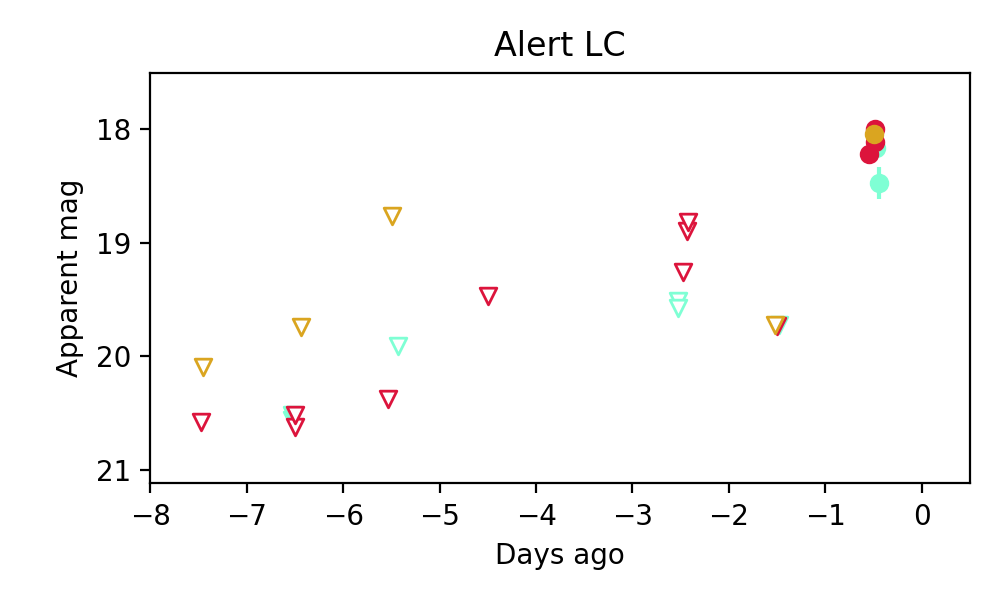
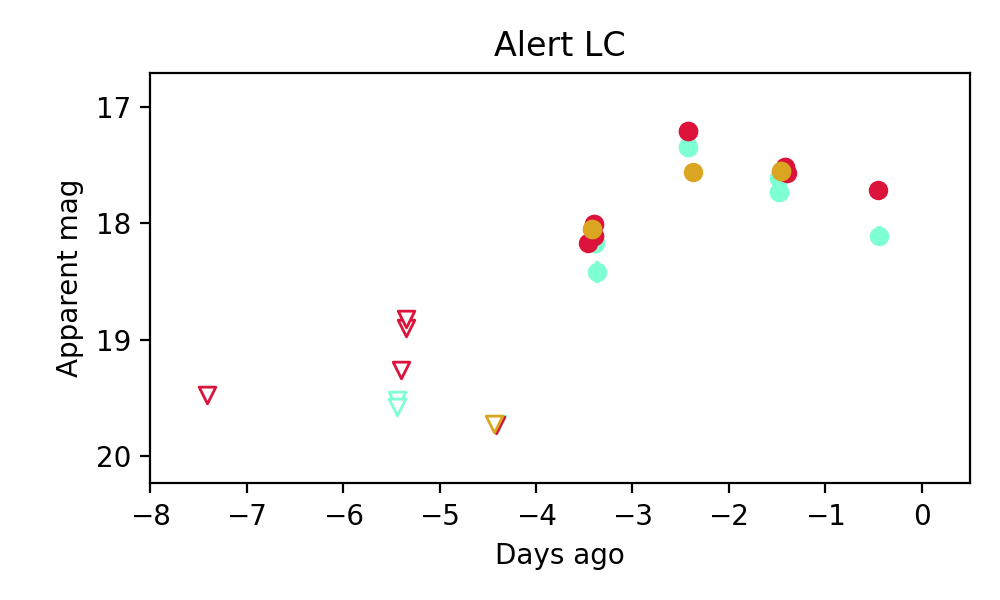
Update HTML from cron job on Wed Sep 10 11:03:40 AM EDT 2025

diff --git a/20250910_fastcand.html b/20250910_fastcand.html
@@ -1,1 +1,1 @@
-<!doctype html><html><head><title>SOURCE MARSHAL</title><style>                  * {                     box-sizing: border-box;                  }                /* Create two equal columns that floats next to each other */                .column {                         float: left;                         width: 50%;                         padding: 10px;                         #height: 220px; /* Should be removed. Only for demonstration */                }                /* Clear floats after the columns */                .row:after {                        content: "";                        display: table;                        clear: both;                }                /* Rounded corner definition */                #rcorners2 {                    border-radius: 15px;                    border: 2px solid #73AD21;                    padding: 15px;                     width: 80%;                }                table, th, td {                    border: 1px solid black;                    border-collapse: collapse;                }                th, td {                    padding: 5px;                }                th {                    text-align: right;                }                .boxed {                    width: 300px;                    border: 3px outset green;                    text-align: center;                    font-size: 20px;                    margin: 10px;                }                 </style></head><body><font size="5" color="green">Candidate List 20250910</font></br></br><a href=./html/20250909_fastcand.html target="_blank"><font size="3" color="green">Previous Day</font></a>&nbsp;&nbsp;&nbsp;&nbsp;<a href=./html/20250911_fastcand.html target="_blank"><font size="3" color="green">Next Day</font></a>&nbsp;&nbsp;&nbsp;&nbsp;<br><br><font size="4" color="green"><a href="#sec1">Section 1: New Sources (age<1d)</a></font>&nbsp;&nbsp;&nbsp;&nbsp;<button onclick="myfunc1()">Cosmological Afterglow</button><p id="demo1"></p><script>function myfunc1() {document.getElementById("demo1").innerHTML = "Sources detected for the first time last night. Matches with Fermi GRBs are shown in a green box."}</script><font size="4" color="green"><a href="#sec2">Section 2: Old (1-5d) sources observed last night</a></font></br><font size="1" color="white">placeholder</font></br><hr style="width:50%;text-align:left;margin-left:0"><br><div id="sec2"></div><div class="boxed">Section 2: Older Sources Observed Last Night (0)</div><br>
+<!doctype html><html><head><title>SOURCE MARSHAL</title><style>                  * {                     box-sizing: border-box;                  }                /* Create two equal columns that floats next to each other */                .column {                         float: left;                         width: 50%;                         padding: 10px;                         #height: 220px; /* Should be removed. Only for demonstration */                }                /* Clear floats after the columns */                .row:after {                        content: "";                        display: table;                        clear: both;                }                /* Rounded corner definition */                #rcorners2 {                    border-radius: 15px;                    border: 2px solid #73AD21;                    padding: 15px;                     width: 80%;                }                table, th, td {                    border: 1px solid black;                    border-collapse: collapse;                }                th, td {                    padding: 5px;                }                th {                    text-align: right;                }                .boxed {                    width: 300px;                    border: 3px outset green;                    text-align: center;                    font-size: 20px;                    margin: 10px;                }                 </style></head><body><font size="5" color="green">Candidate List 20250910</font></br></br><a href=./html/20250909_fastcand.html target="_blank"><font size="3" color="green">Previous Day</font></a>&nbsp;&nbsp;&nbsp;&nbsp;<a href=./html/20250911_fastcand.html target="_blank"><font size="3" color="green">Next Day</font></a>&nbsp;&nbsp;&nbsp;&nbsp;<br><br><font size="4" color="green"><a href="#sec1">Section 1: New Sources (age<1d)</a></font>&nbsp;&nbsp;&nbsp;&nbsp;<button onclick="myfunc1()">Cosmological Afterglow</button><p id="demo1"></p><script>function myfunc1() {document.getElementById("demo1").innerHTML = "Sources detected for the first time last night. Matches with Fermi GRBs are shown in a green box."}</script><font size="4" color="green"><a href="#sec2">Section 2: Old (1-5d) sources observed last night</a></font></br><font size="1" color="white">placeholder</font></br><hr style="width:50%;text-align:left;margin-left:0"><br><div id="sec2"></div><div class="boxed">Section 2: Older Sources Observed Last Night (1)</div><div id="ZTF25abpfkwy"></div>0. <a href="#ZTF25abpfkwy"><b><font size="3">ZTF25abpfkwy (Afterglow?)</font></b></a>&nbsp;&nbsp;&nbsp;&nbsp;<a href=#top>[Back to Top]</a>&nbsp;&nbsp;&nbsp;&nbsp;<a href=./html/ZTF25abpfkwy_announcement.txt>[Share]</a>&nbsp;&nbsp;&nbsp;&nbsp;<a href=./html/ZTF25abpfkwy_swifttoo.txt>[Trigger Swift]</a></br>&nbsp;&nbsp;&nbsp;&nbsp;[<a href="https://fritz.science/alerts/ztf/ZTF25abpfkwy" target="_blank">Fritz</a>]&nbsp;&nbsp;&nbsp;&nbsp;[<a href="https://lasair.roe.ac.uk/object/ZTF25abpfkwy" target="_blank">Lasair</a>]</br>RA, Dec: 289.31211, -14.65959&nbsp;&nbsp;&nbsp;&nbsp;19h17m14.91s, -14d-39m-34.51s</br>Galactic (l, b): 22.57671, -12.24901&nbsp;&nbsp;&nbsp;&nbsp;ext(g-r) = 0.207</br></br><img src="./ZTF25abpfkwy_triplet.png" height="200"><a href = http://ps1images.stsci.edu/cgi-bin/ps1cutouts?pos=289.312109-14.659587&filter=color&filter=g&filter=r&filter=i&filter=z&filter=y&filetypes=stack&auxiliary=data&size=240&output_size=240&verbose=0&autoscale=99.500000><img src="./ZTF25abpfkwy_ps1.png" height="200"></a><a href = http://legacysurvey.org/viewer?ra=289.312109&dec=-14.659587&zoom=16&layer=dr9><img src="ZTF25abpfkwy_ls.png" height="200"></a></br><br><br><br><br><br><b>PS1: 1 source in 3 arcsec</b>&nbsp;&nbsp;&nbsp;&nbsp;Closest: d = 2.82 arcsec&nbsp;&nbsp;&nbsp;&nbsp;photoz=0.71+/-0.08&nbsp;&nbsp;&nbsp;&nbsp;<b>peak abs mag = -26.48</b><br>LegacySurvey: 0 sources in 3 arcsec</br><br><img src="ZTF25abpfkwy_alert_lc.png" height="300"><br>Extinction-corrected gr color:<br>From alerts: 0.19 +/- 0.1 mag<br>Extinction-corrected gi color:<br>From alerts: -0.22 +/- 0.02 mag<br>Extinction-corrected ri color:<br>From alerts: -0.13 +/- 0.02 mag<br><b> Consistent with synchrotron, g-r>0!</b><br>Rise Rate:<br>g: -99 mag/day <br>r: 0.11 mag/day <br>i: 1.65 mag/day <br><br>Fade Rate:<br>g: -99 mag/day <br>r: -99 mag/day <br>i: -99 mag/day <br><br><br><br>

diff --git a/html/20250910_fastcand.html b/html/20250910_fastcand.html
@@ -1,1 +1,1 @@
-<!doctype html><html><head><title>SOURCE MARSHAL</title><style>                  * {                     box-sizing: border-box;                  }                /* Create two equal columns that floats next to each other */                .column {                         float: left;                         width: 50%;                         padding: 10px;                         #height: 220px; /* Should be removed. Only for demonstration */                }                /* Clear floats after the columns */                .row:after {                        content: "";                        display: table;                        clear: both;                }                /* Rounded corner definition */                #rcorners2 {                    border-radius: 15px;                    border: 2px solid #73AD21;                    padding: 15px;                     width: 80%;                }                table, th, td {                    border: 1px solid black;                    border-collapse: collapse;                }                th, td {                    padding: 5px;                }                th {                    text-align: right;                }                .boxed {                    width: 300px;                    border: 3px outset green;                    text-align: center;                    font-size: 20px;                    margin: 10px;                }                 </style></head><body><font size="5" color="green">Candidate List 20250910</font></br></br><a href=./html/20250909_fastcand.html target="_blank"><font size="3" color="green">Previous Day</font></a>&nbsp;&nbsp;&nbsp;&nbsp;<a href=./html/20250911_fastcand.html target="_blank"><font size="3" color="green">Next Day</font></a>&nbsp;&nbsp;&nbsp;&nbsp;<br><br><font size="4" color="green"><a href="#sec1">Section 1: New Sources (age<1d)</a></font>&nbsp;&nbsp;&nbsp;&nbsp;<button onclick="myfunc1()">Cosmological Afterglow</button><p id="demo1"></p><script>function myfunc1() {document.getElementById("demo1").innerHTML = "Sources detected for the first time last night. Matches with Fermi GRBs are shown in a green box."}</script><font size="4" color="green"><a href="#sec2">Section 2: Old (1-5d) sources observed last night</a></font></br><font size="1" color="white">placeholder</font></br><hr style="width:50%;text-align:left;margin-left:0"><br><div id="sec2"></div><div class="boxed">Section 2: Older Sources Observed Last Night (0)</div><br>
+<!doctype html><html><head><title>SOURCE MARSHAL</title><style>                  * {                     box-sizing: border-box;                  }                /* Create two equal columns that floats next to each other */                .column {                         float: left;                         width: 50%;                         padding: 10px;                         #height: 220px; /* Should be removed. Only for demonstration */                }                /* Clear floats after the columns */                .row:after {                        content: "";                        display: table;                        clear: both;                }                /* Rounded corner definition */                #rcorners2 {                    border-radius: 15px;                    border: 2px solid #73AD21;                    padding: 15px;                     width: 80%;                }                table, th, td {                    border: 1px solid black;                    border-collapse: collapse;                }                th, td {                    padding: 5px;                }                th {                    text-align: right;                }                .boxed {                    width: 300px;                    border: 3px outset green;                    text-align: center;                    font-size: 20px;                    margin: 10px;                }                 </style></head><body><font size="5" color="green">Candidate List 20250910</font></br></br><a href=./html/20250909_fastcand.html target="_blank"><font size="3" color="green">Previous Day</font></a>&nbsp;&nbsp;&nbsp;&nbsp;<a href=./html/20250911_fastcand.html target="_blank"><font size="3" color="green">Next Day</font></a>&nbsp;&nbsp;&nbsp;&nbsp;<br><br><font size="4" color="green"><a href="#sec1">Section 1: New Sources (age<1d)</a></font>&nbsp;&nbsp;&nbsp;&nbsp;<button onclick="myfunc1()">Cosmological Afterglow</button><p id="demo1"></p><script>function myfunc1() {document.getElementById("demo1").innerHTML = "Sources detected for the first time last night. Matches with Fermi GRBs are shown in a green box."}</script><font size="4" color="green"><a href="#sec2">Section 2: Old (1-5d) sources observed last night</a></font></br><font size="1" color="white">placeholder</font></br><hr style="width:50%;text-align:left;margin-left:0"><br><div id="sec2"></div><div class="boxed">Section 2: Older Sources Observed Last Night (1)</div><div id="ZTF25abpfkwy"></div>0. <a href="#ZTF25abpfkwy"><b><font size="3">ZTF25abpfkwy (Afterglow?)</font></b></a>&nbsp;&nbsp;&nbsp;&nbsp;<a href=#top>[Back to Top]</a>&nbsp;&nbsp;&nbsp;&nbsp;<a href=./html/ZTF25abpfkwy_announcement.txt>[Share]</a>&nbsp;&nbsp;&nbsp;&nbsp;<a href=./html/ZTF25abpfkwy_swifttoo.txt>[Trigger Swift]</a></br>&nbsp;&nbsp;&nbsp;&nbsp;[<a href="https://fritz.science/alerts/ztf/ZTF25abpfkwy" target="_blank">Fritz</a>]&nbsp;&nbsp;&nbsp;&nbsp;[<a href="https://lasair.roe.ac.uk/object/ZTF25abpfkwy" target="_blank">Lasair</a>]</br>RA, Dec: 289.31211, -14.65959&nbsp;&nbsp;&nbsp;&nbsp;19h17m14.91s, -14d-39m-34.51s</br>Galactic (l, b): 22.57671, -12.24901&nbsp;&nbsp;&nbsp;&nbsp;ext(g-r) = 0.207</br></br><img src="./ZTF25abpfkwy_triplet.png" height="200"><a href = http://ps1images.stsci.edu/cgi-bin/ps1cutouts?pos=289.312109-14.659587&filter=color&filter=g&filter=r&filter=i&filter=z&filter=y&filetypes=stack&auxiliary=data&size=240&output_size=240&verbose=0&autoscale=99.500000><img src="./ZTF25abpfkwy_ps1.png" height="200"></a><a href = http://legacysurvey.org/viewer?ra=289.312109&dec=-14.659587&zoom=16&layer=dr9><img src="ZTF25abpfkwy_ls.png" height="200"></a></br><br><br><br><br><br><b>PS1: 1 source in 3 arcsec</b>&nbsp;&nbsp;&nbsp;&nbsp;Closest: d = 2.82 arcsec&nbsp;&nbsp;&nbsp;&nbsp;photoz=0.71+/-0.08&nbsp;&nbsp;&nbsp;&nbsp;<b>peak abs mag = -26.48</b><br>LegacySurvey: 0 sources in 3 arcsec</br><br><img src="ZTF25abpfkwy_alert_lc.png" height="300"><br>Extinction-corrected gr color:<br>From alerts: 0.19 +/- 0.1 mag<br>Extinction-corrected gi color:<br>From alerts: -0.22 +/- 0.02 mag<br>Extinction-corrected ri color:<br>From alerts: -0.13 +/- 0.02 mag<br><b> Consistent with synchrotron, g-r>0!</b><br>Rise Rate:<br>g: -99 mag/day <br>r: 0.11 mag/day <br>i: 1.65 mag/day <br><br>Fade Rate:<br>g: -99 mag/day <br>r: -99 mag/day <br>i: -99 mag/day <br><br><br><br>
